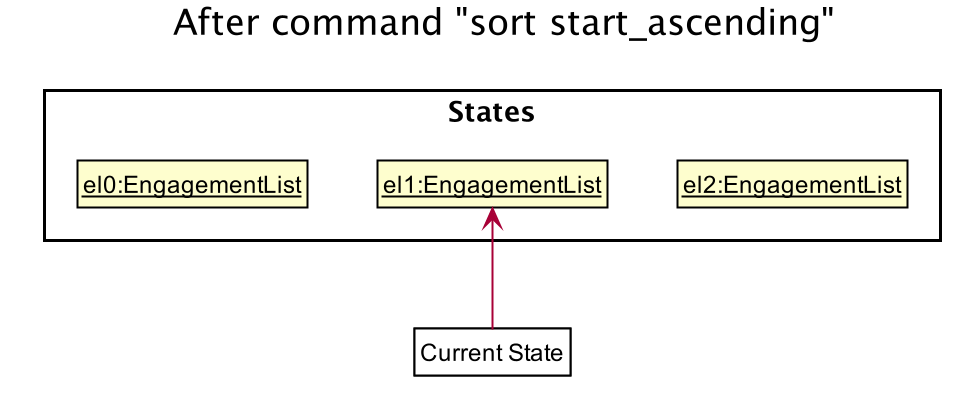
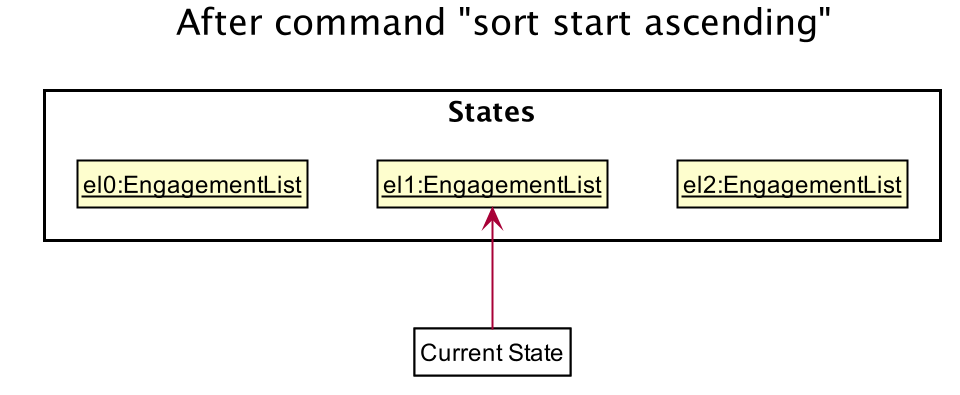
Rebuild pages at 604f8b163b3a6e9d501459d78406ed4df04c7ef6

Changed region(s): [[0.1562, 0.0, 0.875, 0.1215]]

diff --git a/UserGuide.html b/UserGuide.html
@@ -200,7 +200,8 @@ Format: <code>list</code></p>
 <div class="sect2">
 <h3 id="sorting-all-appointments-code-sort-code"><a class="link" href="#sorting-all-appointments-code-sort-code">3.5. Sorting all appointments : <code>sort</code></a></h3>
 <div class="paragraph">
-<p>Sorts the list of all appointments in the appointment list by the order specified by user.<br></p>
+<p>Sorts the list of all appointments in the appointment list by the order specified by user.<br>
+Format: <code>sort ORDER</code></p>
 </div>
 <div class="admonitionblock tip">
 <table>
@@ -209,13 +210,10 @@ Format: <code>list</code></p>
 <i class="fa icon-tip" title="Tip"></i>
 </td>
 <td class="content">
-Orders supported: <code>description_ascending</code>, <code>description_descending</code>, <code>start_ascending</code>, <code>start_descending</code>, <code>end_ascending</code>, <code>end_descending</code>, <code>priority_ascending</code>, <code>priority_descending</code>.
+Orders supported: <code>description ascending</code>, <code>description descending</code>, <code>start ascending</code>, <code>start descending</code>, <code>end ascending</code>, <code>end descending</code>, <code>priority ascending</code>, <code>priority descending</code>.
 </td>
 </tr>
 </table>
-</div>
-<div class="paragraph">
-<p>Format: <code>sort ORDER</code></p>
 </div>
 <div class="paragraph">
 <p>Examples:</p>
@@ -223,7 +221,7 @@ Orders supported: <code>description_ascending</code>, <code>description_descendi
 <div class="ulist">
 <ul>
 <li>
-<p><code>sort start_ascending</code><br>
+<p><code>sort start ascending</code><br>
 Sorts the list displayed in ascending order of start time.</p>
 </li>
 </ul>
@@ -243,6 +241,18 @@ Sorts the list displayed in ascending order of start time.</p>
 <div class="title">Figure 4. Engagement list after sorting by start time in ascending order</div>
 </div>
 </div>
+</div>
+<div class="admonitionblock tip">
+<table>
+<tr>
+<td class="icon">
+<i class="fa icon-tip" title="Tip"></i>
+</td>
+<td class="content">
+After sorting, commands that require INDEX as an input field (e.g. <code>delete</code>) will take in INDEX with regards to the new list  displayed. e.g. <code>delete 1</code> will delete the current first engagement displayed.
+</td>
+</tr>
+</table>
 </div>
 </div>
 <div class="sect2">
@@ -307,7 +317,7 @@ Format: <code>find KEYWORD [MORE_KEYWORDS]</code></p>
 <i class="fa icon-tip" title="Tip"></i>
 </td>
 <td class="content">
-The complete list can be displayed again using <code>list</code>.
+The unfiltered list can be displayed again using <code>list</code>.
 </td>
 </tr>
 </table>
@@ -381,6 +391,18 @@ Format: <code>clear</code></p>
 <div class="paragraph">
 <p>Undoes the previous command, provided that it exists.<br>
 Format: <code>undo</code></p>
+</div>
+<div class="admonitionblock tip">
+<table>
+<tr>
+<td class="icon">
+<i class="fa icon-tip" title="Tip"></i>
+</td>
+<td class="content">
+Undo supports the following commands that modify the engagement list: <code>add</code>, <code>edit</code>, <code>delete</code> and <code>clear</code>.
+</td>
+</tr>
+</table>
 </div>
 <div class="paragraph">
 <p>Examples:</p>
@@ -606,4 +628,4 @@ e.g. <code>find team outing</code></p>
 </ul>
 </div>
 </div>
-</div></div><div id="footer"><div class="container"><div id="footer-text">Last updated 2019-10-31 11:59:21 UTC</div></div></div></body></html>
+</div></div><div id="footer"><div class="container"><div id="footer-text">Last updated 2019-10-31 12:36:42 UTC</div></div></div></body></html>

diff --git a/DeveloperGuide.html b/DeveloperGuide.html
@@ -451,7 +451,7 @@ If the <code>versionPointer</code> is at index <code>historyList.size() - 1</cod
 </table>
 </div>
 <div class="paragraph">
-<p>Step 5. The user then decides to execute the command <code>sort start_ascending</code>. Commands that do not modify the engagement list, such as <code>sort</code>, will usually not call <code>Model#saveEngagementList()</code>, <code>Model#undoEngagementList()</code> or <code>Model#redoEngagementList()</code>. Thus, the <code>historyList</code> remains unchanged.</p>
+<p>Step 5. The user then decides to execute the command <code>sort start ascending</code>. Commands that do not modify the engagement list, such as <code>sort</code>, will usually not call <code>Model#saveEngagementList()</code>, <code>Model#undoEngagementList()</code> or <code>Model#redoEngagementList()</code>. Thus, the <code>historyList</code> remains unchanged.</p>
 </div>
 <div class="imageblock" style="text-align: center">
 <div class="content">
@@ -1054,7 +1054,7 @@ and notifies the user.</p>
 <p>User requests to list appointments</p>
 </li>
 <li>
-<p>System displays the list of appointments in chronological order</p>
+<p>System displays the list of appointments</p>
 <div class="paragraph">
 <p>Use case ends.</p>
 </div>
@@ -1067,16 +1067,9 @@ and notifies the user.</p>
 <div class="ulist none">
 <ul class="none">
 <li>
-<p>1a. User specifies ordering method</p>
-<div class="ulist none">
-<ul class="none">
-<li>
-<p>1a1. System displays the list of appointments in specified order</p>
+<p>1a. The list of appointments is empty</p>
 <div class="paragraph">
 <p>Use case ends.</p>
-</div>
-</li>
-</ul>
 </div>
 </li>
 </ul>
@@ -1534,6 +1527,56 @@ Steps 2-4 are repeated for as many rounds as required until User runs out of hea
 </li>
 </ul>
 </div>
+<h3 id="use-case-uc16-sort-appointments" class="discrete">Use case: (UC16) Sort appointments</h3>
+<div class="paragraph">
+<p><strong>MSS</strong></p>
+</div>
+<div class="olist arabic">
+<ol class="arabic">
+<li>
+<p>User requests to Sort appointments and specifies ordering method</p>
+</li>
+<li>
+<p>System sorts the list of appointments by the specified order</p>
+<div class="paragraph">
+<p>Use case ends.</p>
+</div>
+</li>
+</ol>
+</div>
+<div class="paragraph">
+<p><strong>Extensions</strong></p>
+</div>
+<div class="ulist none">
+<ul class="none">
+<li>
+<p>1a. User does not specify order</p>
+<div class="ulist none">
+<ul class="none">
+<li>
+<p>1a1. System shows error message</p>
+<div class="paragraph">
+<p>Use case ends.</p>
+</div>
+</li>
+</ul>
+</div>
+</li>
+<li>
+<p>1b. User specifies an invalid order</p>
+<div class="ulist none">
+<ul class="none">
+<li>
+<p>1b1. System shows error message</p>
+<div class="paragraph">
+<p>Use case ends.</p>
+</div>
+</li>
+</ul>
+</div>
+</li>
+</ul>
+</div>
 </div>
 </div>
 <div class="sect1">
@@ -1686,4 +1729,4 @@ Expected: The most recent window size and location is retained.</p>
 </div>
 </div>
 </div>
-</div></div><div id="footer"><div class="container"><div id="footer-text">Last updated 2019-10-31 11:59:21 UTC</div></div></div></body></html>
+</div></div><div id="footer"><div class="container"><div id="footer-text">Last updated 2019-10-31 12:36:42 UTC</div></div></div></body></html>

diff --git a/team/brebeek.html b/team/brebeek.html
@@ -40,6 +40,25 @@ It is an appointment manager for secretaries and receptionists to better schedul
 </div>
 </li>
 <li>
+<p><strong>Major enhancement</strong>: added the ability to <strong>sort engagements by custom order</strong></p>
+<div class="ulist">
+<ul>
+<li>
+<p>What it does: allows the user to sort.</p>
+</li>
+<li>
+<p>Justification: This feature improves the product significantly because it sorts.</p>
+</li>
+<li>
+<p>Highlights:</p>
+</li>
+<li>
+<p>Credits: _</p>
+</li>
+</ul>
+</div>
+</li>
+<li>
 <p><strong>Minor enhancement</strong>: added a history command that allows the user to navigate to previous commands using up/down keys.</p>
 </li>
 <li>
@@ -272,7 +291,7 @@ If the <code>versionPointer</code> is at index <code>historyList.size() - 1</cod
 </table>
 </div>
 <div class="paragraph">
-<p>Step 5. The user then decides to execute the command <code>sort start_ascending</code>. Commands that do not modify the engagement list, such as <code>sort</code>, will usually not call <code>Model#saveEngagementList()</code>, <code>Model#undoEngagementList()</code> or <code>Model#redoEngagementList()</code>. Thus, the <code>historyList</code> remains unchanged.</p>
+<p>Step 5. The user then decides to execute the command <code>sort start ascending</code>. Commands that do not modify the engagement list, such as <code>sort</code>, will usually not call <code>Model#saveEngagementList()</code>, <code>Model#undoEngagementList()</code> or <code>Model#redoEngagementList()</code>. Thus, the <code>historyList</code> remains unchanged.</p>
 </div>
 <div class="imageblock" style="text-align: center">
 <div class="content">
@@ -376,4 +395,4 @@ If the <code>versionPointer</code> is at index <code>historyList.size() - 1</cod
 <p><em>{Optionally, you may include other projects in your portfolio.}</em></p>
 </div>
 </div>
-</div></div><div id="footer"><div class="container"><div id="footer-text">Last updated 2019-10-31 11:59:21 UTC</div></div></div></body></html>
+</div></div><div id="footer"><div class="container"><div id="footer-text">Last updated 2019-10-31 12:36:42 UTC</div></div></div></body></html>

diff --git a/team/johndoe.html b/team/johndoe.html
@@ -271,7 +271,7 @@ If the <code>versionPointer</code> is at index <code>historyList.size() - 1</cod
 </table>
 </div>
 <div class="paragraph">
-<p>Step 5. The user then decides to execute the command <code>sort start_ascending</code>. Commands that do not modify the engagement list, such as <code>sort</code>, will usually not call <code>Model#saveEngagementList()</code>, <code>Model#undoEngagementList()</code> or <code>Model#redoEngagementList()</code>. Thus, the <code>historyList</code> remains unchanged.</p>
+<p>Step 5. The user then decides to execute the command <code>sort start ascending</code>. Commands that do not modify the engagement list, such as <code>sort</code>, will usually not call <code>Model#saveEngagementList()</code>, <code>Model#undoEngagementList()</code> or <code>Model#redoEngagementList()</code>. Thus, the <code>historyList</code> remains unchanged.</p>
 </div>
 <div class="imageblock" style="text-align: center">
 <div class="content">
@@ -375,4 +375,4 @@ If the <code>versionPointer</code> is at index <code>historyList.size() - 1</cod
 <p><em>{Optionally, you may include other projects in your portfolio.}</em></p>
 </div>
 </div>
-</div></div><div id="footer"><div class="container"><div id="footer-text">Last updated 2019-10-31 11:59:21 UTC</div></div></div></body></html>
+</div></div><div id="footer"><div class="container"><div id="footer-text">Last updated 2019-10-31 12:36:42 UTC</div></div></div></body></html>

diff --git a/ContactUs.html b/ContactUs.html
@@ -12,4 +12,4 @@
 <p><strong>Email us</strong> : You can also reach us at <code>lyskevin@gmail.com</code> (Kevin), <code>e0318604@u.nus.edu</code> (Gi Hun), <code>yuchen_hu@u.nus.edu</code> (Yuchen), <code>e0341290@u.nus.edu</code> (Sudharshan), <code>e0309667@u.nus.edu</code> (Jun Hao)</p>
 </li>
 </ul>
-</div></div><div id="footer"><div class="container"><div id="footer-text">Last updated 2019-10-31 11:59:21 UTC</div></div></div></body></html>
+</div></div><div id="footer"><div class="container"><div id="footer-text">Last updated 2019-10-31 12:36:42 UTC</div></div></div></body></html>

diff --git a/tutorials/RemovingFields.html b/tutorials/RemovingFields.html
@@ -175,4 +175,4 @@ While keeping the <code>address</code> field in the json files does not cause th
 <p>You can go through each individual <code>json</code> file and manually remove the <code>address</code> field.</p>
 </div>
 </div>
-</div></div><div id="footer"><div class="container"><div id="footer-text">Last updated 2019-10-31 11:59:21 UTC</div></div></div></body></html>
+</div></div><div id="footer"><div class="container"><div id="footer-text">Last updated 2019-10-31 12:36:42 UTC</div></div></div></body></html>

diff --git a/Testing.html b/Testing.html
@@ -90,4 +90,4 @@ e.g. <code>seedu.address.logic.LogicManagerTest</code></p>
 <div class="title">Figure 1. <code>Accessibility</code> permission is granted to <code>IntelliJ IDEA</code></div>
 </div>
 </div>
-</div></div><div id="footer"><div class="container"><div id="footer-text">Last updated 2019-10-31 11:59:21 UTC</div></div></div></body></html>
+</div></div><div id="footer"><div class="container"><div id="footer-text">Last updated 2019-10-31 12:36:42 UTC</div></div></div></body></html>

diff --git a/tutorials/AddRemark.html b/tutorials/AddRemark.html
@@ -616,4 +616,4 @@ In this case, <code>CommandTestUtil#assertCommandSuccess</code> is the best fit 
 <p>This concludes the tutorial for adding a new <code>Command</code> to AddressBook.</p>
 </div>
 </div>
-</div></div><div id="footer"><div class="container"><div id="footer-text">Last updated 2019-10-31 11:59:21 UTC</div></div></div></body></html>
+</div></div><div id="footer"><div class="container"><div id="footer-text">Last updated 2019-10-31 12:36:42 UTC</div></div></div></body></html>

diff --git a/SettingUp.html b/SettingUp.html
@@ -180,4 +180,4 @@ Having both Travis and AppVeyor ensures your App works on both Unix-based platfo
 </div>
 </div>
 </div>
-</div></div><div id="footer"><div class="container"><div id="footer-text">Last updated 2019-10-31 11:59:21 UTC</div></div></div></body></html>
+</div></div><div id="footer"><div class="container"><div id="footer-text">Last updated 2019-10-31 12:36:42 UTC</div></div></div></body></html>

diff --git a/UsingCoveralls.html b/UsingCoveralls.html
@@ -111,4 +111,4 @@ If you have not set up Travis CI, see <a href="UsingTravis.html">UsingTravis.ado
 </ol>
 </div>
 </div>
-</div></div><div id="footer"><div class="container"><div id="footer-text">Last updated 2019-10-31 11:59:21 UTC</div></div></div></body></html>
+</div></div><div id="footer"><div class="container"><div id="footer-text">Last updated 2019-10-31 12:36:42 UTC</div></div></div></body></html>

diff --git a/UsingGradle.html b/UsingGradle.html
@@ -228,4 +228,4 @@ See <code>build.gradle</code> &#8594; <code>allprojects</code> &#8594; <code>dep
 </ul>
 </div>
 </div>
-</div></div><div id="footer"><div class="container"><div id="footer-text">Last updated 2019-10-31 11:59:21 UTC</div></div></div></body></html>
+</div></div><div id="footer"><div class="container"><div id="footer-text">Last updated 2019-10-31 12:36:42 UTC</div></div></div></body></html>

diff --git a/UsingNetlify.html b/UsingNetlify.html
@@ -138,4 +138,4 @@ The publish directory is the directory in which the built HTML documentation res
 </ol>
 </div>
 </div>
-</div></div><div id="footer"><div class="container"><div id="footer-text">Last updated 2019-10-31 11:59:21 UTC</div></div></div></body></html>
+</div></div><div id="footer"><div class="container"><div id="footer-text">Last updated 2019-10-31 12:36:42 UTC</div></div></div></body></html>
